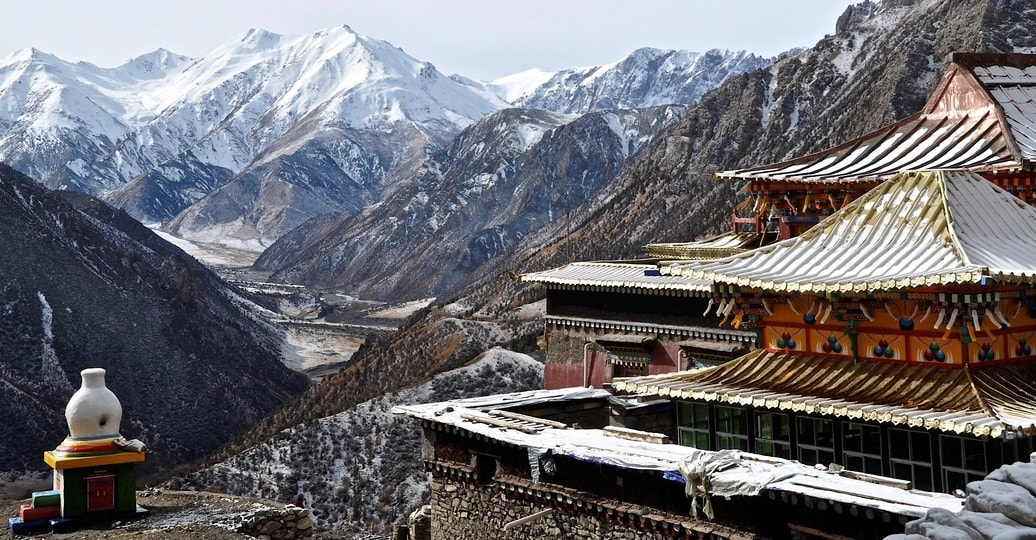
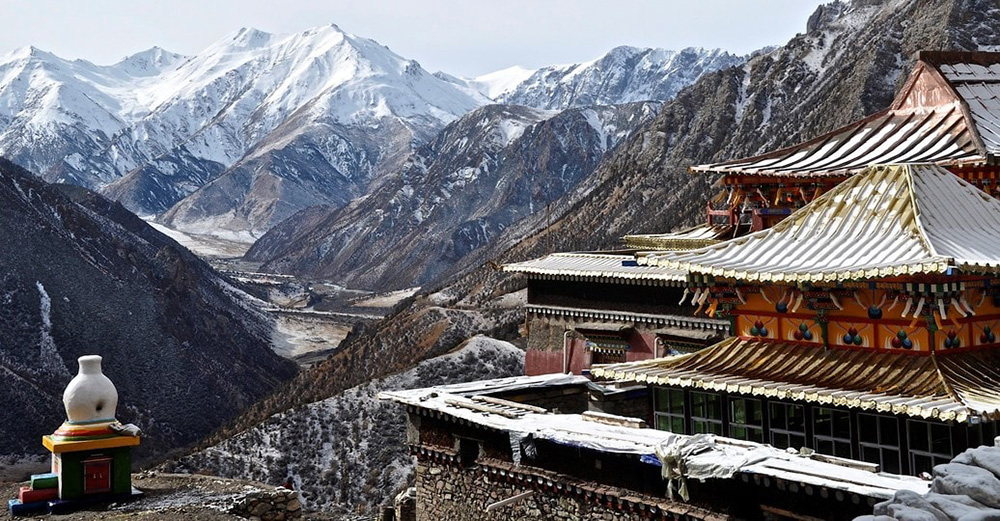
image resolution

diff --git a/app/assets/chapters-images.js b/app/assets/chapters-images.js
@@ -1,13 +1,13 @@
 //name every const like this for chapter images 
 
 const chapter1 = require('../assets/images/chap1.jpg');
-const chapter2 = require('../assets/images/himalaya.png');
+const chapter2 = require('../assets/images/himalaya.jpg');
 const chapter3 = require('../assets/images/monastery.jpg');
 
 //name every const like this for level images 
 
 const chapter1level1 = require('../assets/images/crash2.2.jpg');
-const chapter1level2 = require('../assets/images/walk2.2.png');
+const chapter1level2 = require('../assets/images/walk2.2.jpg');
 const chapter1level3 = require('../assets/images/man.jpg');
 const chapter1level4 = require('../assets/images/sherpa2.jpg');
 const chapter1level5 = require('../assets/images/stupa2.jpg');
